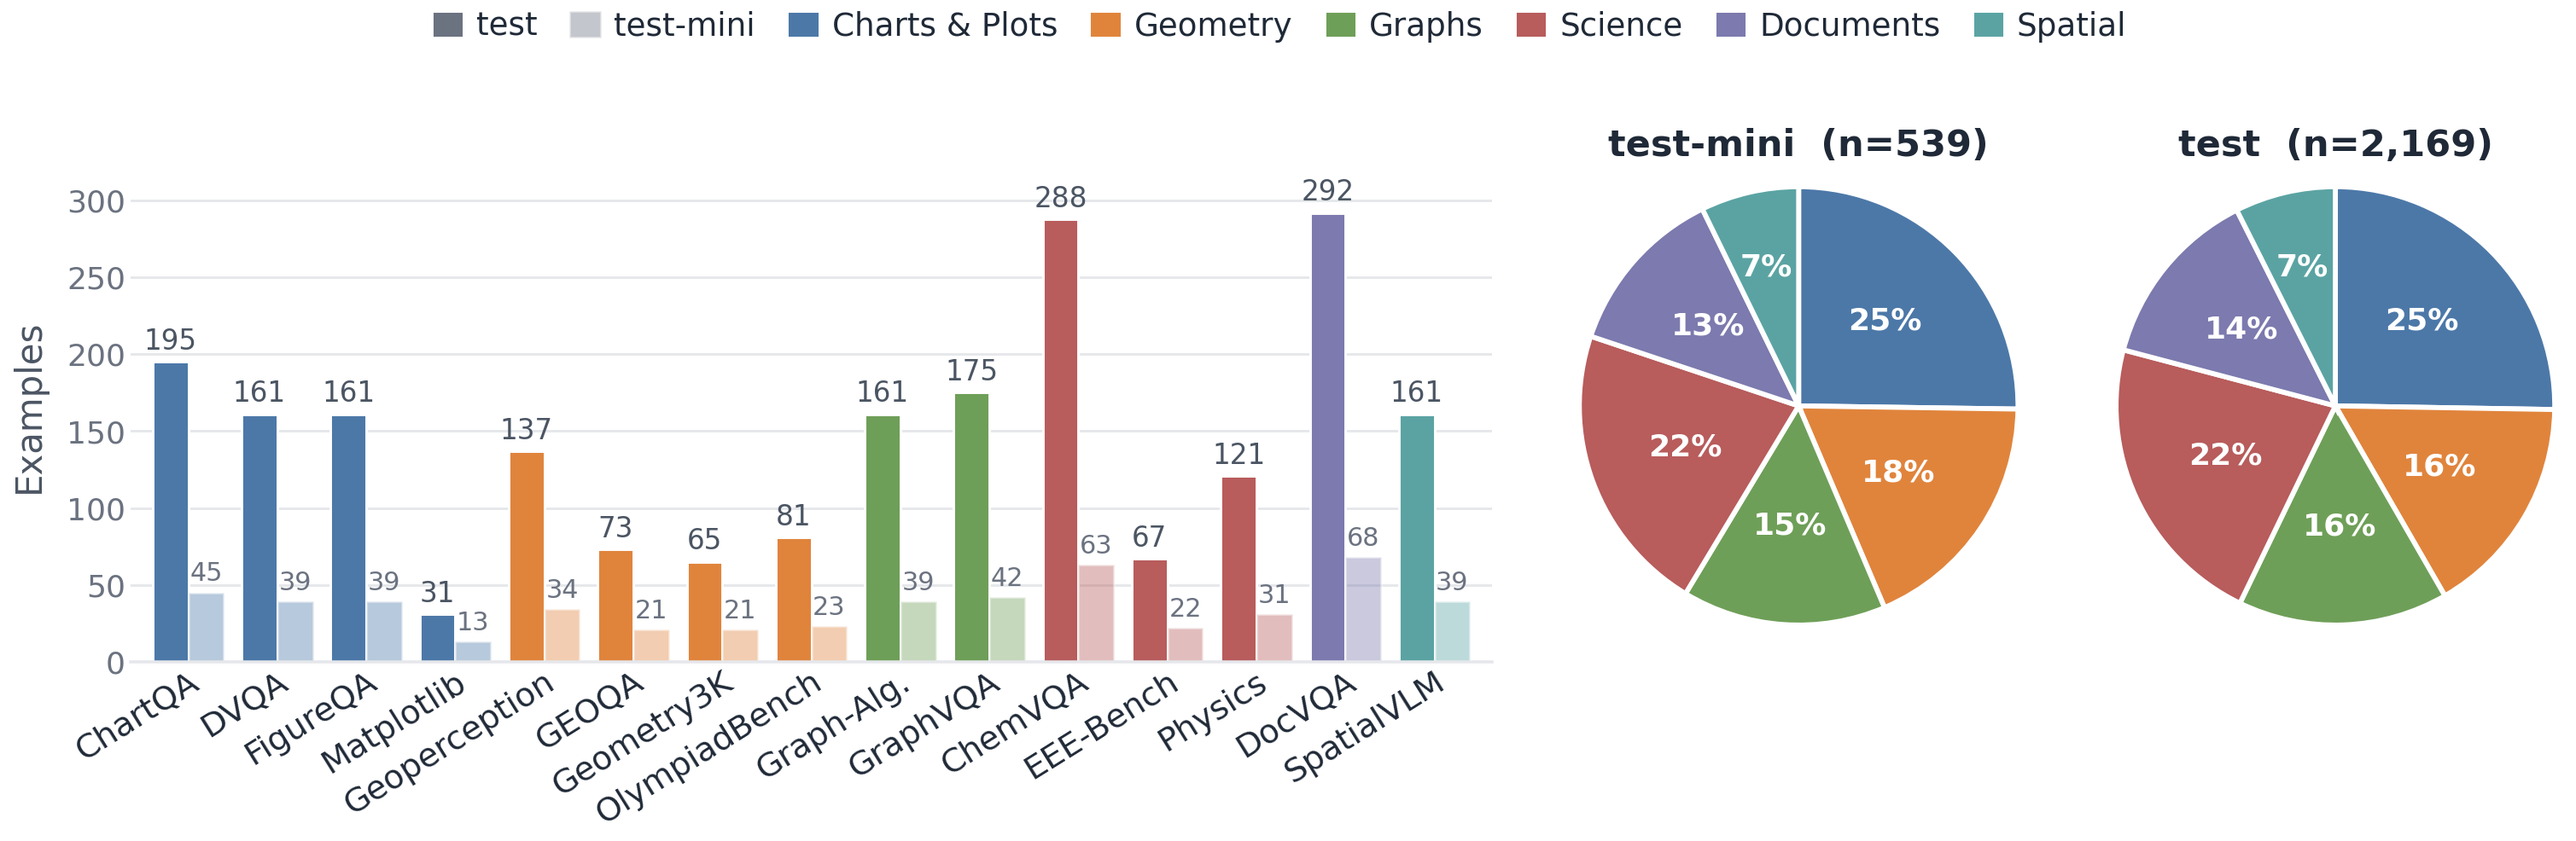
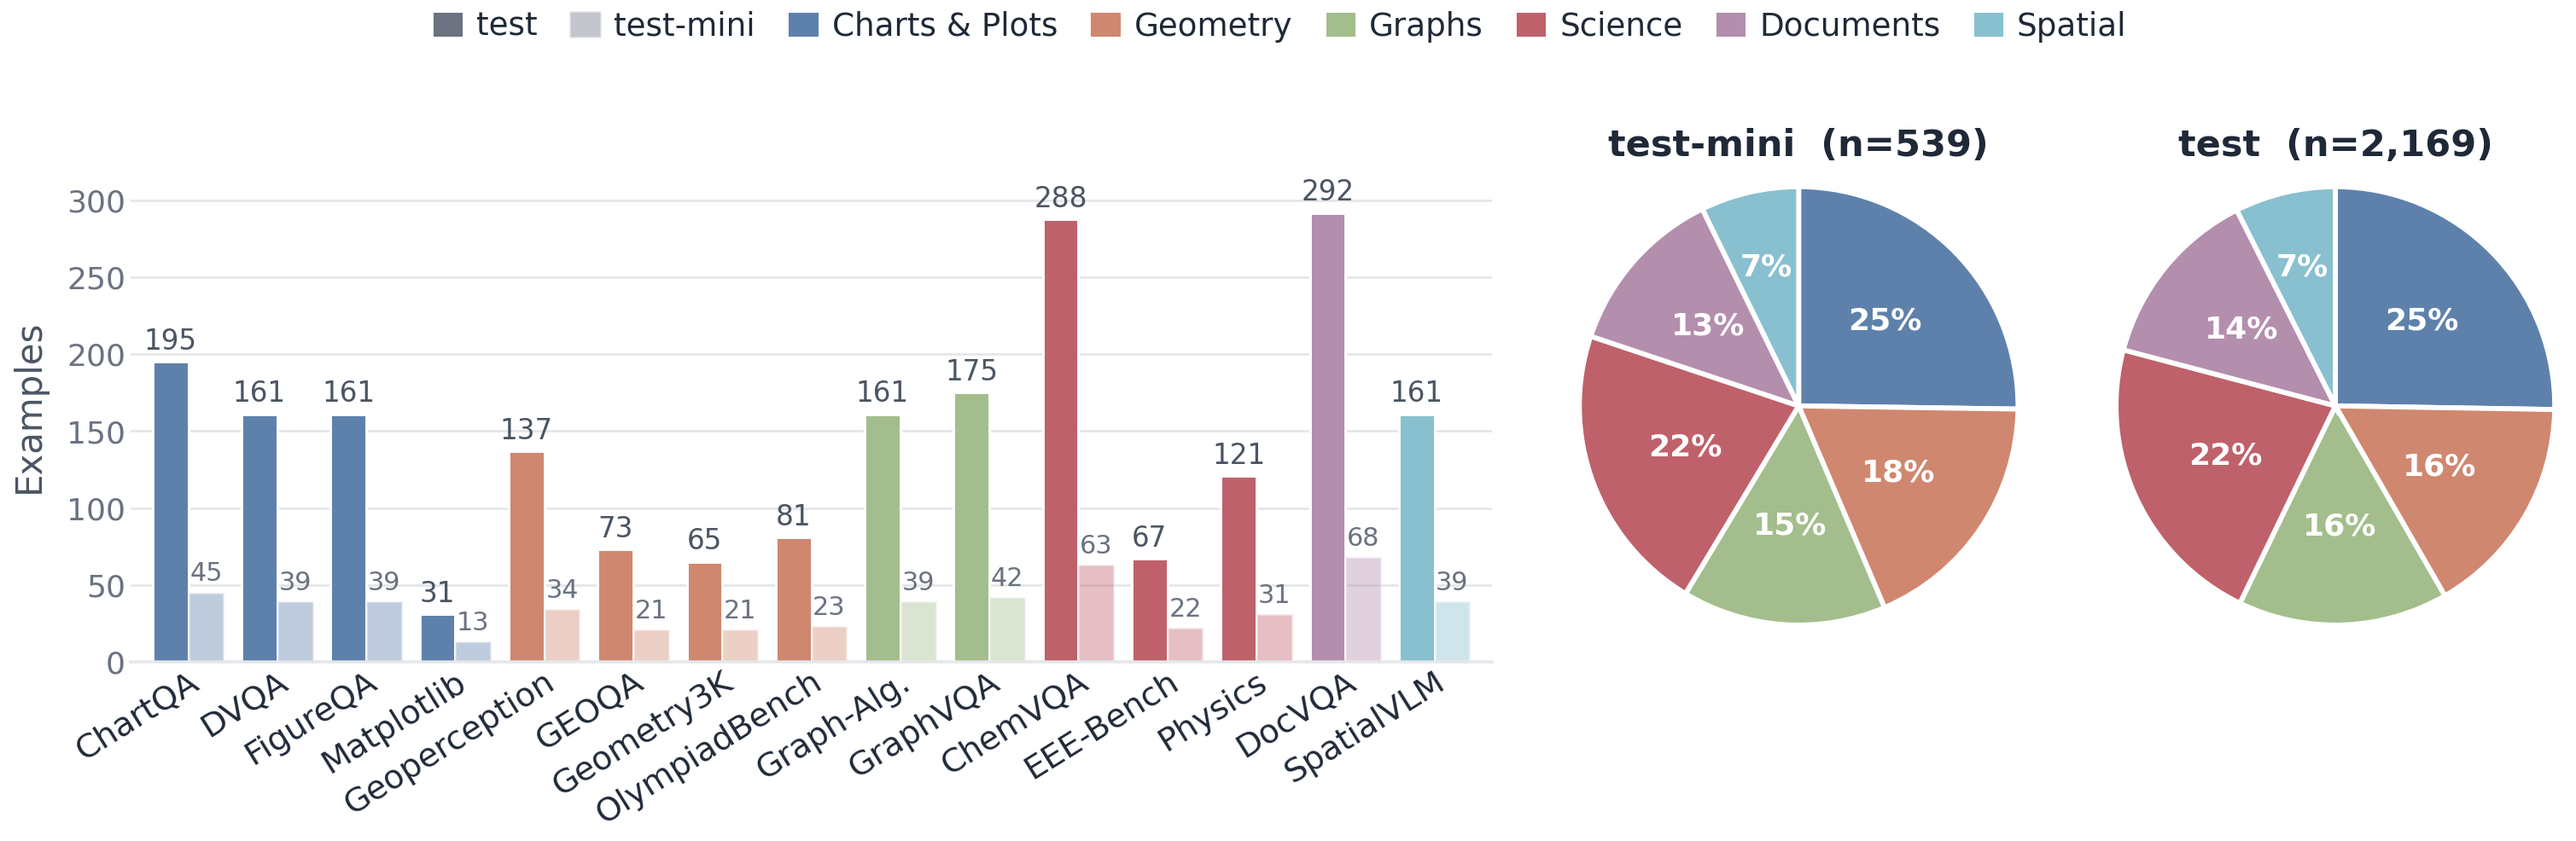
cleanup

diff --git a/vision2code/tables/benchmark_stats.py b/vision2code/tables/benchmark_stats.py
@@ -1,0 +1,56 @@
+from __future__ import annotations
+
+import argparse
+import json
+from collections import Counter
+from pathlib import Path
+
+from vision2code.data.source_metadata import CATEGORY_BY_DATASET
+from vision2code.utils.io import write_csv
+from vision2code.utils.paths import repo_root
+
+
+def reproduce(output_dir: Path | None = None) -> list[Path]:
+    root = repo_root()
+    out = output_dir or root / "paper_assets" / "tables"
+    out.mkdir(parents=True, exist_ok=True)
+    outputs: list[Path] = []
+    for split, filename in [("test-mini", "test-mini-filtered.json"), ("test", "test-filtered.json")]:
+        rows = json.loads((root / "configs" / "data" / filename).read_text(encoding="utf-8"))
+        by_dataset = Counter(str(row.get("dataset") or "") for row in rows)
+        by_domain: Counter[str] = Counter()
+        for dataset, count in by_dataset.items():
+            by_domain[CATEGORY_BY_DATASET.get(dataset, "Other")] += count
+        dataset_path = out / f"benchmark_stats_by_dataset_{split}.csv"
+        domain_path = out / f"benchmark_stats_by_domain_{split}.csv"
+        write_csv(
+            dataset_path,
+            [
+                {
+                    "split": split,
+                    "dataset": dataset,
+                    "count": count,
+                    "domain": CATEGORY_BY_DATASET.get(dataset, "Other"),
+                }
+                for dataset, count in sorted(by_dataset.items())
+            ],
+        )
+        write_csv(
+            domain_path,
+            [{"split": split, "domain": domain, "count": count} for domain, count in sorted(by_domain.items())],
+        )
+        outputs.extend([dataset_path, domain_path])
+    return outputs
+
+
+def main() -> None:
+    parser = argparse.ArgumentParser(description="Regenerate benchmark statistics CSV files.")
+    parser.add_argument("--output-dir", type=Path)
+    args = parser.parse_args()
+    for path in reproduce(args.output_dir):
+        print(path)
+
+
+if __name__ == "__main__":
+    main()
+

diff --git a/README.md b/README.md
@@ -207,11 +207,12 @@ scripts/reproduce_main_tables.sh
 scripts/reproduce_error_analysis.sh
 scripts/reproduce_human_correlation.sh
 scripts/reproduce_ablations.sh
-scripts/reproduce_figures.sh
+scripts/reproduce_benchmark_stats.sh
 ```
 
-`scripts/reproduce_figures.sh` only regenerates benchmark statistics. Static figure assets such as
-`pipeline.png` and `self_improvement_pipeline.png` are kept under `paper_assets/figures/`.
+Static figure assets such as `benchmark_statistics.png`, `pipeline.png`, and
+`self_improvement_pipeline.png` are kept under `paper_assets/figures/`; they are not regenerated by
+these scripts.
 
 ## Directory Structure
 
@@ -225,9 +226,8 @@ vision2code/rendering/    Python/Matplotlib, LaTeX, Excalidraw renderers
 vision2code/evaluation/   dataset rubrics, generic rubric, parsing, guardrails
 vision2code/generation/   benchmark prompts and code normalization
 vision2code/metrics/      embedding similarity helpers and focus texts
-vision2code/tables/       CSV table reproduction from saved outputs
-vision2code/figures/      benchmark statistics only
+vision2code/tables/       CSV table and benchmark-stat reproduction
 results/paper_outputs/    saved outputs for table reproduction
 paper_assets/tables/      reproduced CSV tables
-paper_assets/figures/     benchmark/static figures
+paper_assets/figures/     static paper figures
 ```

diff --git a/docs/REPRODUCIBILITY.md b/docs/REPRODUCIBILITY.md
@@ -15,17 +15,18 @@ No Kaggle data available:
 scripts/run_smoke_test.sh --data_dir data/fixture_kaggle --num_samples 3
 ```
 
-## Level 2: Tables And Figures From Saved Outputs
+## Level 2: Tables And Benchmark Statistics From Saved Outputs
 
 ```bash
 scripts/reproduce_main_tables.sh
 scripts/reproduce_error_analysis.sh
 scripts/reproduce_human_correlation.sh
 scripts/reproduce_ablations.sh
-scripts/reproduce_figures.sh
+scripts/reproduce_benchmark_stats.sh
 ```
 
-These commands read `results/paper_outputs/` and write derived files under `paper_assets/tables/` and `paper_assets/figures/`. They do not call model APIs.
+These commands read saved CSV/JSON files and write derived CSV files under `paper_assets/tables/`. They do not call model APIs.
+Static figure files are kept under `paper_assets/figures/`.
 
 ## Level 3: Full Evaluation Rerun
 

diff --git a/docs/COMPUTE.md b/docs/COMPUTE.md
@@ -9,7 +9,7 @@ scripts/reproduce_main_tables.sh
 scripts/reproduce_error_analysis.sh
 scripts/reproduce_human_correlation.sh
 scripts/reproduce_ablations.sh
-scripts/reproduce_figures.sh
+scripts/reproduce_benchmark_stats.sh
 ```
 
 The smoke test needs Python, Pillow, NumPy, pandas, and Matplotlib. Rendering runs with `MPLBACKEND=Agg` in a temporary directory.
